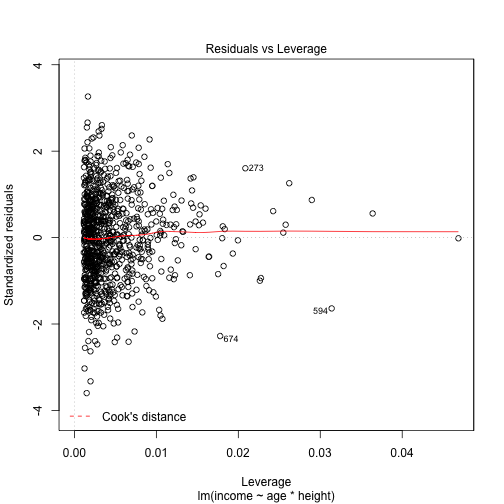
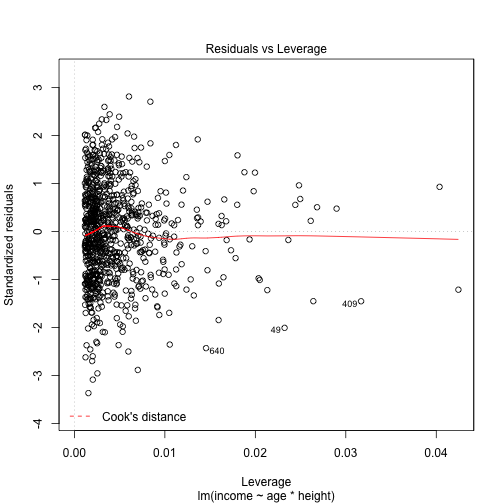
conflict

diff --git a/_sessions/StatisticsII/StatisticsII.html b/_sessions/StatisticsII/StatisticsII.html
@@ -275,7 +275,7 @@ lm(formula = income ~ age*height,
 ## 
 ## Coefficients:
 ## (Intercept)          age       height   age:height  
-##   -1177.587      174.659       11.524       -0.143
+##   -1485.947      200.578       12.902       -0.286
 ```
 
 &lt;br&gt;
@@ -288,7 +288,7 @@ lm(formula = income ~ age*height,
 ## 
 ## Coefficients:
 ## (Intercept)          age       height   age:height  
-##   -1177.587      174.659       11.524       -0.143
+##   -1485.947      200.578       12.902       -0.286
 ```
 
 
@@ -324,20 +324,20 @@ summary(my_lm)
 ## 
 ## Residuals:
 ##    Min     1Q Median     3Q    Max 
-##  -4176   -778     14    793   3788 
+##  -4176   -859     47    807   3485 
 ## 
 ## Coefficients:
 ##              Estimate Std. Error t value Pr(&gt;|t|)    
-## (Intercept) -1177.587   1579.218   -0.75     0.46    
-## age           174.659     33.595    5.20  2.5e-07 ***
-## height         11.524      9.213    1.25     0.21    
-## age:height     -0.143      0.196   -0.73     0.47    
+## (Intercept) -1485.947   1646.033   -0.90     0.37    
+## age           200.578     34.391    5.83  7.7e-09 ***
+## height         12.902      9.591    1.35     0.18    
+## age:height     -0.286      0.200   -1.43     0.15    
 ## ---
 ## Signif. codes:  0 '***' 0.001 '**' 0.01 '*' 0.05 '.' 0.1 ' ' 1
 ## 
-## Residual standard error: 1160 on 870 degrees of freedom
-## Multiple R-squared:  0.813,	Adjusted R-squared:  0.813 
-## F-statistic: 1.26e+03 on 3 and 870 DF,  p-value: &lt;2e-16
+## Residual standard error: 1240 on 863 degrees of freedom
+## Multiple R-squared:  0.803,	Adjusted R-squared:  0.802 
+## F-statistic: 1.17e+03 on 3 and 863 DF,  p-value: &lt;2e-16
 ```
 
 ]
@@ -388,7 +388,7 @@ my_lm$coefficients
 
 ```
 ## (Intercept)         age      height  age:height 
-##  -1177.5871    174.6592     11.5242     -0.1427
+##  -1485.9469    200.5781     12.9025     -0.2859
 ```
 
 ```r
@@ -397,15 +397,15 @@ my_lm$residuals
 ```
 
 ```
-##        1        2        3        4        5 
-##  -544.09 -1696.32   922.77  1249.22  1154.70 
-##        6        7        8        9       10 
-##  1043.67  -705.49 -2104.23   833.10    93.99 
-##       11       12       13       14       15 
-##   636.45   911.35  1118.11   661.13  -232.33 
-##       16       17       18       19       20 
-##  -490.22 -1459.30   280.78   -75.39   227.06 
-##  [ reached getOption("max.print") -- omitted 854 entries ]
+##       1       2       3       4       5       6 
+##  -690.1  2131.3 -2591.8  1133.7  3221.7  1200.9 
+##       7       8       9      10      11      12 
+##  -778.3 -1446.1  -396.8  1052.4 -1538.6  1081.6 
+##      13      14      15      16      17      18 
+##  -404.7   164.3   181.7  2229.4   335.5  -315.2 
+##      19      20 
+##  1502.4   589.0 
+##  [ reached getOption("max.print") -- omitted 847 entries ]
 ```
 
 ]
@@ -478,11 +478,11 @@ my_glm
 ## 
 ## Coefficients:
 ## (Intercept)          age       height   age:height  
-##   -1.71e+01    -1.18e-01     1.02e-01     6.39e-04  
+##   -2.13e+01     1.66e-02     1.24e-01    -6.99e-05  
 ## 
-## Degrees of Freedom: 873 Total (i.e. Null);  870 Residual
-## Null Deviance:	    1210 
-## Residual Deviance: 870 	AIC: 878
+## Degrees of Freedom: 866 Total (i.e. Null);  863 Residual
+## Null Deviance:	    1200 
+## Residual Deviance: 898 	AIC: 906
 ```
 
 ]
@@ -517,11 +517,18 @@ anova(my_an)
 ## Analysis of Variance Table
 ## 
 ## Response: income
-##                   Df   Sum Sq Mean Sq F value Pr(&gt;F)
-## education          3 8.33e+06 2777285    0.38   0.76
-## height             1 1.39e+06 1390464    0.19   0.66
-## education:height   3 2.41e+07 8036489    1.11   0.34
-## Residuals        866 6.25e+09 7219035
+##                   Df   Sum Sq  Mean Sq F value Pr(&gt;F)
+## education          3 6.01e+06  2004896    0.26  0.856
+## height             1 1.82e+06  1822112    0.23  0.629
+## education:height   3 5.57e+07 18575508    2.38  0.068
+##                   
+## education         
+## height            
+## education:height .
+##  [ reached getOption("max.print") -- omitted 1 row ]
+## ---
+## Signif. codes:  
+## 0 '***' 0.001 '**' 0.01 '*' 0.05 '.' 0.1 ' ' 1
 ```
 
 ]
@@ -561,21 +568,21 @@ my_an
 ## 
 ## Coefficients:
 ##                       (Intercept)  
-##                           8694.23  
+##                           3721.42  
 ##        educationobligatory_school  
-##                          -5381.25  
+##                           9193.04  
 ##                   educationSEK_II  
-##                          -7363.29  
+##                           -692.76  
 ##                  educationSEK_III  
-##                          -1457.89  
+##                           5342.52  
 ##                            height  
-##                             -7.25  
+##                             23.07  
 ## educationobligatory_school:height  
-##                             30.50  
+##                            -54.90  
 ##            educationSEK_II:height  
-##                             45.03  
+##                              5.09  
 ##           educationSEK_III:height  
-##                              9.03
+##                            -31.98
 ```
 
 ]
@@ -619,30 +626,30 @@ summary(m)
 ## Formula: income ~ age * height + (1 | eyecor)
 ##    Data: baselers
 ## 
-## REML criterion at convergence: 14797
+## REML criterion at convergence: 14794
 ## 
 ## Scaled residuals: 
 ##    Min     1Q Median     3Q    Max 
-## -3.596 -0.670  0.012  0.682  3.262 
+## -3.362 -0.692  0.038  0.650  2.806 
 ## 
 ## Random effects:
 ##  Groups   Name        Variance Std.Dev.
-##  eyecor   (Intercept) 1.07e-08 1.04e-04
-##  Residual             1.35e+06 1.16e+03
-## Number of obs: 874, groups:  eyecor, 2
+##  eyecor   (Intercept)       0     0    
+##  Residual             1542126  1242    
+## Number of obs: 867, groups:  eyecor, 2
 ## 
 ## Fixed effects:
 ##              Estimate Std. Error t value
-## (Intercept) -1177.587   1579.218   -0.75
-## age           174.659     33.595    5.20
-## height         11.524      9.213    1.25
-## age:height     -0.143      0.196   -0.73
+## (Intercept) -1485.947   1646.033   -0.90
+## age           200.578     34.391    5.83
+## height         12.902      9.591    1.35
+## age:height     -0.286      0.200   -1.43
 ## 
 ## Correlation of Fixed Effects:
 ##            (Intr) age    height
-## age        -0.942              
-## height     -0.997  0.940       
-## age:height  0.939 -0.997 -0.942
+## age        -0.939              
+## height     -0.997  0.936       
+## age:height  0.937 -0.997 -0.939
 ## fit warnings:
 ## Some predictor variables are on very different scales: consider rescaling
 ```
@@ -682,7 +689,7 @@ summary(my_bm)
 ```
 ## Bayes factor analysis
 ## --------------
-## [1] age + height + age:height : 1.565e+312 ±0%
+## [1] age + height + age:height : 3.771e+299 ±0%
 ## 
 ## Against denominator:
 ##   Intercept only 
@@ -719,7 +726,7 @@ my_lm
 ## 
 ## Coefficients:
 ## (Intercept)          age       height   age:height  
-##   -1177.587      174.659       11.524       -0.143
+##   -1485.947      200.578       12.902       -0.286
 ```
 
 
@@ -732,12 +739,12 @@ tidy(my_lm)
 
 ```
 ## # A tibble: 4 x 5
-##   term         estimate std.error statistic     p.value
-##   &lt;chr&gt;           &lt;dbl&gt;     &lt;dbl&gt;     &lt;dbl&gt;       &lt;dbl&gt;
-## 1 (Intercept) -1178.     1579.       -0.746 0.456      
-## 2 age           175.       33.6       5.20  0.000000250
-## 3 height         11.5       9.21      1.25  0.211      
-## 4 age:height     -0.143     0.196    -0.727 0.467
+##   term        estimate std.error statistic     p.value
+##   &lt;chr&gt;          &lt;dbl&gt;     &lt;dbl&gt;     &lt;dbl&gt;       &lt;dbl&gt;
+## 1 (Intercep… -1486.     1646.       -0.903     3.67e-1
+## 2 age          201.       34.4       5.83      7.72e-9
+## 3 height        12.9       9.59      1.35      1.79e-1
+## 4 age:height    -0.286     0.200    -1.43      1.54e-1
 ```
 
 ]
